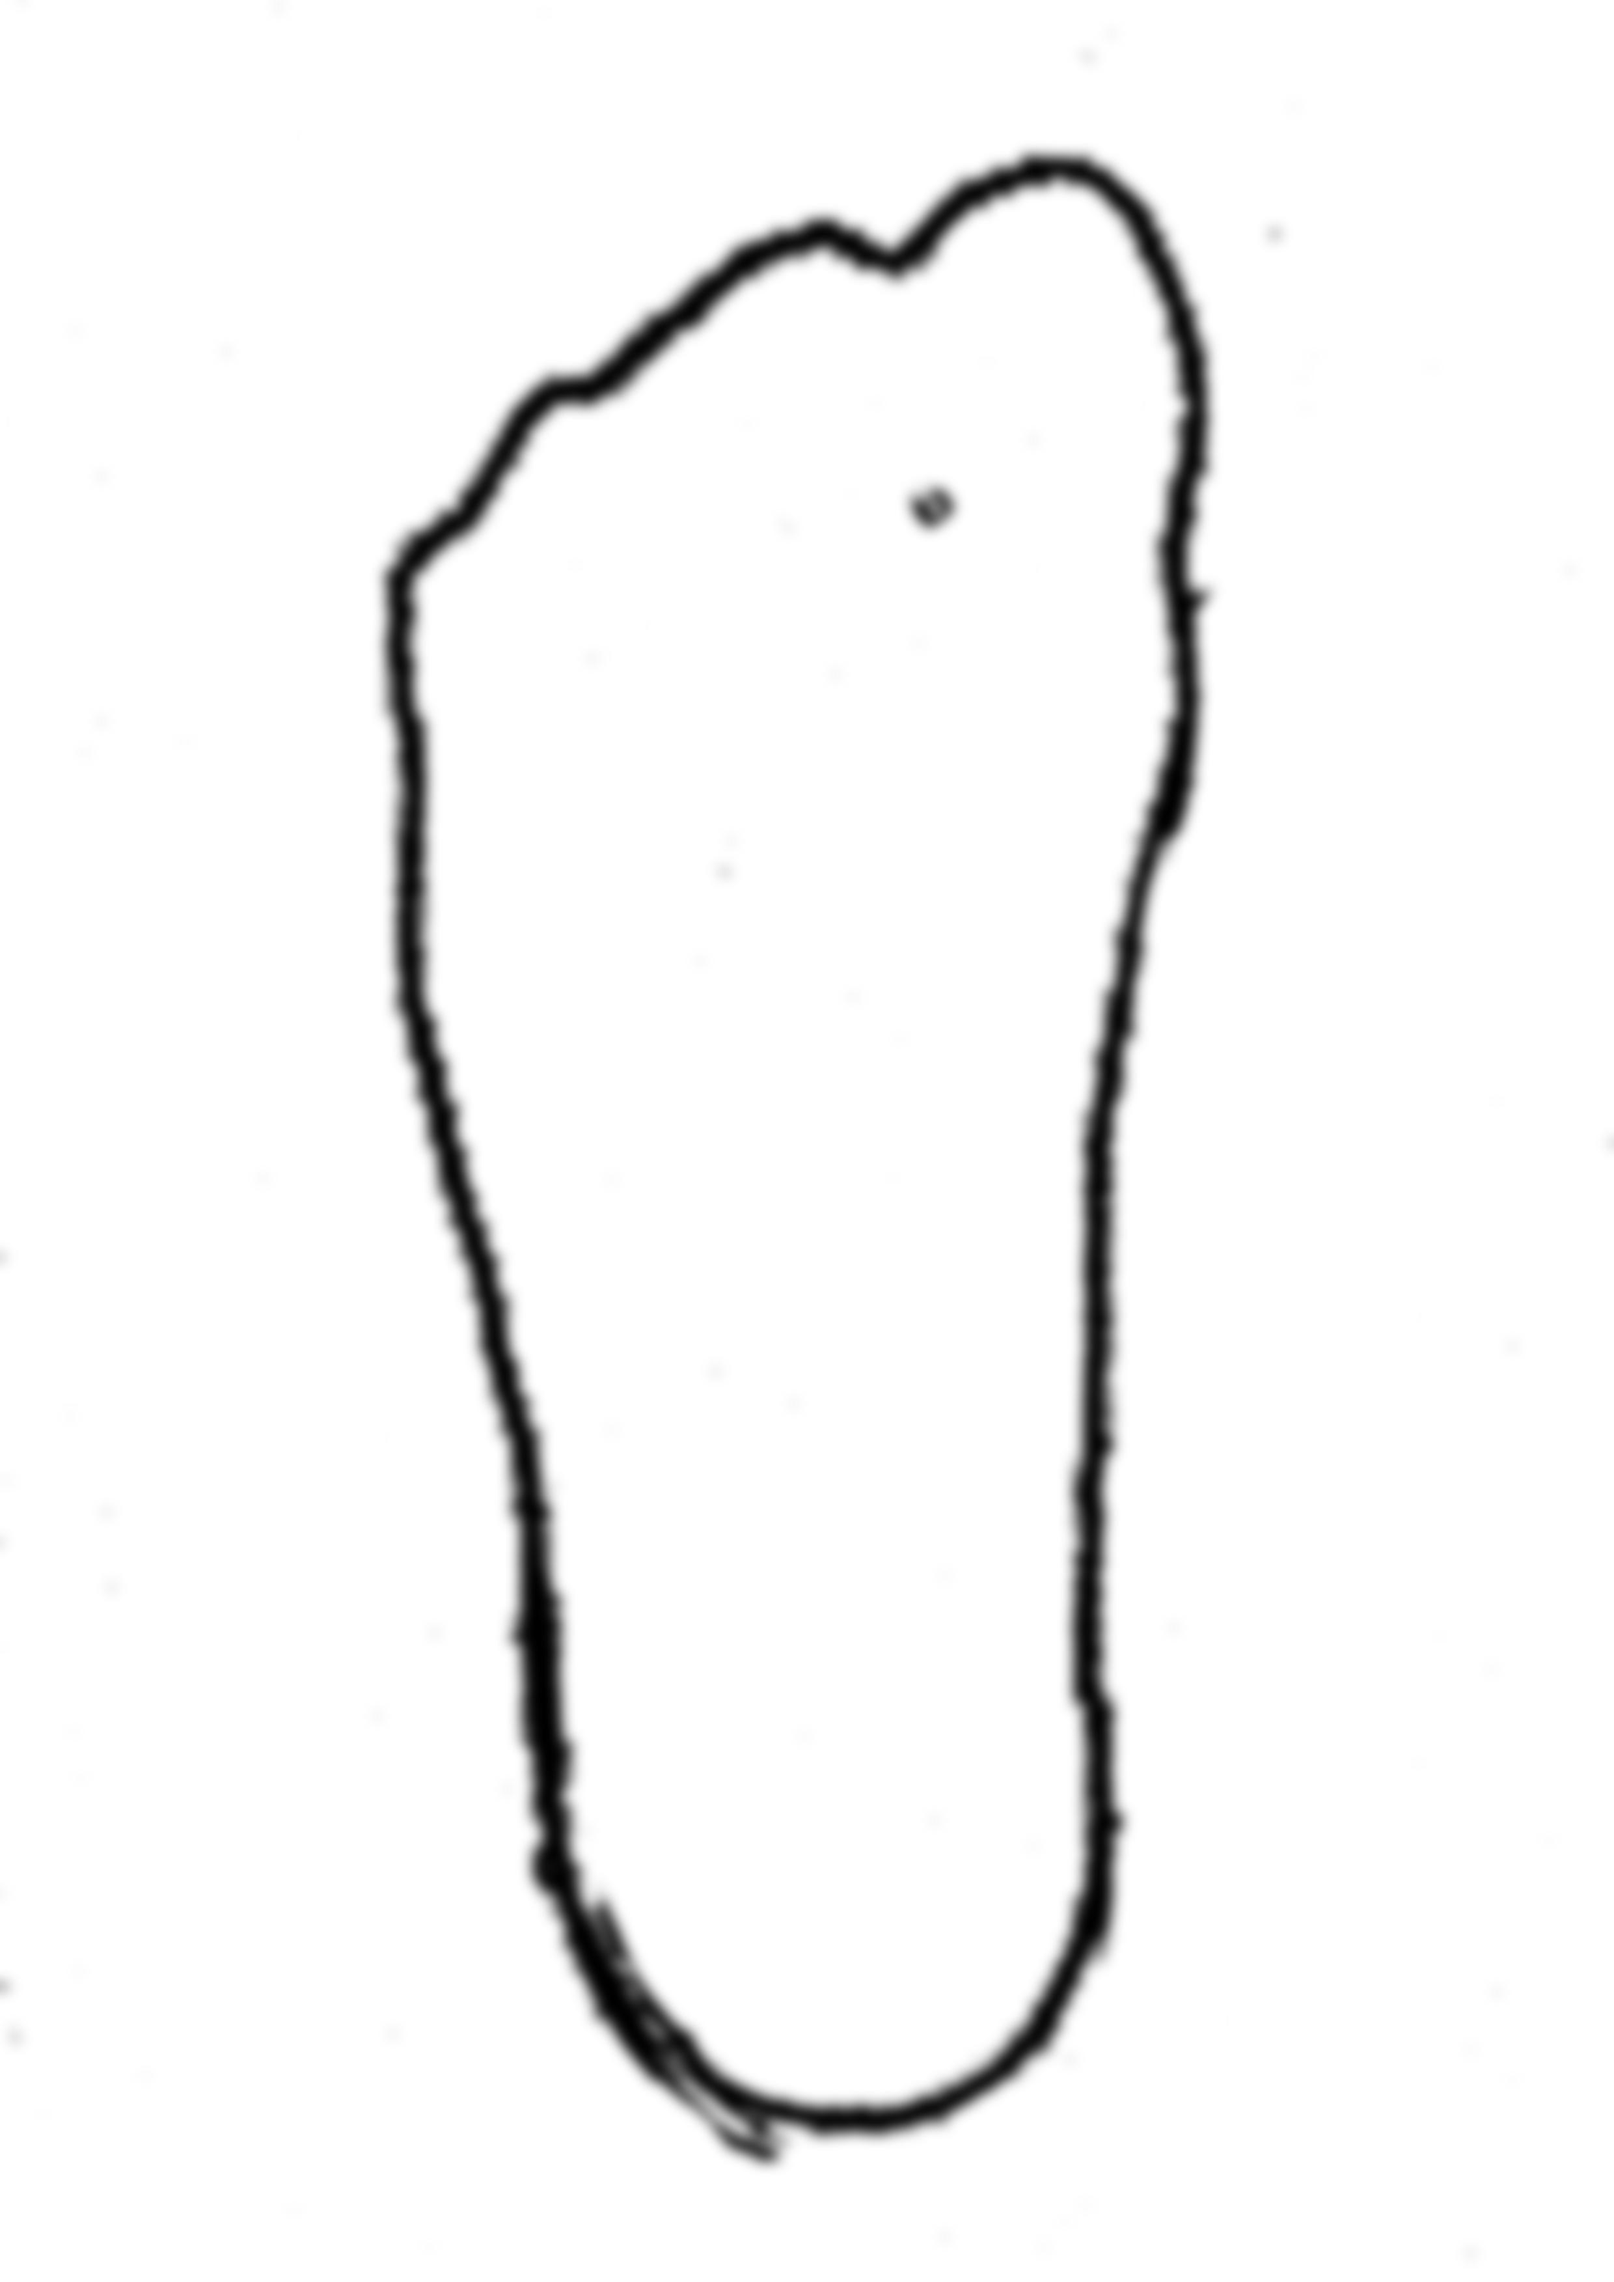
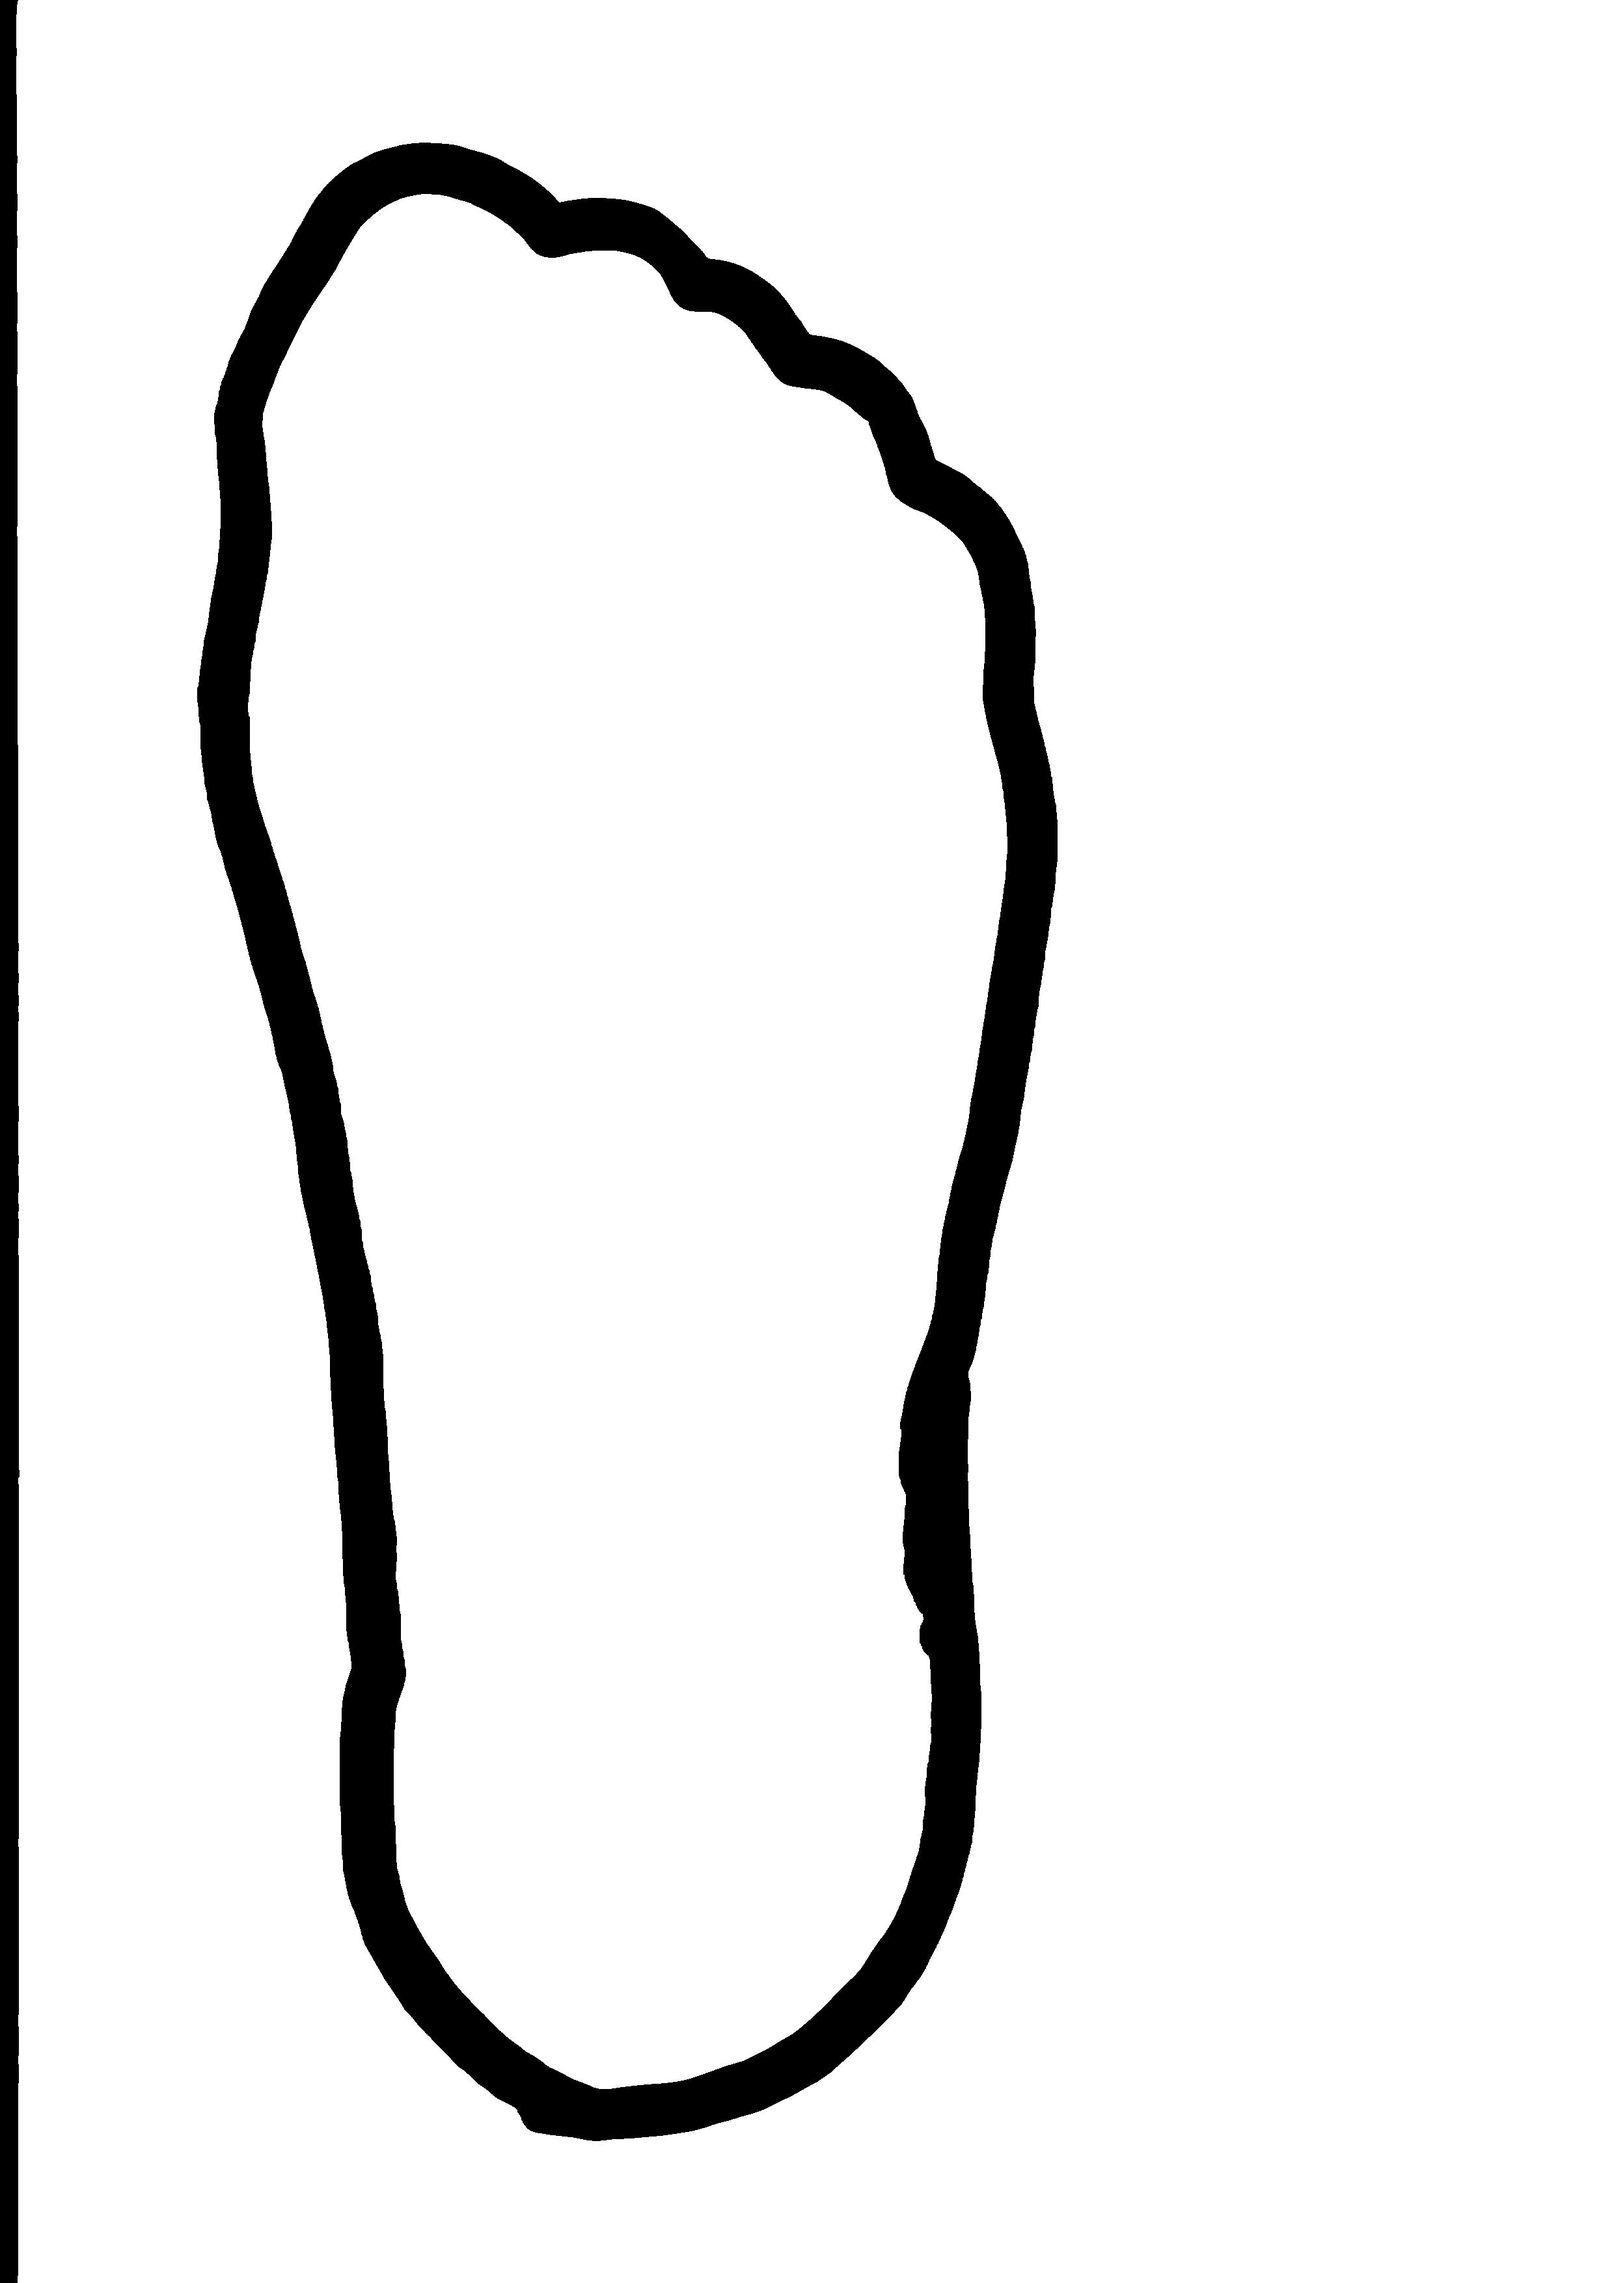
improved detection on holes and outlines, however multiple holes breaks program

Changed region(s): [[0.1242, 0.0622, 0.7762, 0.9641], [0.0, 0.0, 0.031, 1.0]]

diff --git a/TemplateCreator.py b/TemplateCreator.py
@@ -27,13 +27,12 @@ def img2hole(image):
 			if pixel != (0, 0, 0):
 				# If it's not black, set it to white
 				enhanced_image.putpixel((x, y), (255, 255, 255))  # Set as white
-
-	grayscale_image = enhanced_image.convert('L')
+	dilated_image = enhanced_image.filter(ImageFilter.MaxFilter(size=5))
+	blurred_image = dilated_image.filter(ImageFilter.GaussianBlur(radius=10))
+	grayscale_image = blurred_image.convert('L')
 	threshold_image = grayscale_image.point(lambda p: 0 if p < 255 else 255, '1')
-	dilated_image = threshold_image.filter(ImageFilter.MaxFilter(size=5))
-	compatible_image = dilated_image.convert('RGB')
-	blurred_image = compatible_image.filter(ImageFilter.GaussianBlur(radius=10))
-	blurred_image.save("enhanced_holes.jpg")
+	
+	threshold_image.save("enhanced_holes.jpg")
 
 	img = cv2.imread("enhanced_holes.jpg")
 	gray = cv2.cvtColor(img, cv2.COLOR_BGR2GRAY)
@@ -58,12 +57,21 @@ def img2hole(image):
 	return point
 
 def img2Outline(image):
-	grayscale_image = image.convert('L')
+	enhancer = ImageEnhance.Contrast(image)
+	enhanced_image = enhancer.enhance(3)
+	width, height = image.size
+	for x in range(width):
+		for y in range(height):
+			pixel = enhanced_image.getpixel((x, y))
+			# Check if the pixel is not black
+			if (0, 0, 0) <= pixel <= (5, 5, 5):
+				enhanced_image.putpixel((x, y), (255, 255, 255))  # Set as white
+	dilated_image = enhanced_image.filter(ImageFilter.MaxFilter(size=5))
+	blurred_image = dilated_image.filter(ImageFilter.GaussianBlur(radius=10))
+	grayscale_image = blurred_image.convert('L')
 	threshold_image = grayscale_image.point(lambda p: 0 if p < 255 else 255, '1')
-	dilated_image = threshold_image.filter(ImageFilter.MaxFilter(size=5))
-	compatible_image = dilated_image.convert('RGB')
-	blurred_image = compatible_image.filter(ImageFilter.GaussianBlur(radius=10))
-	blurred_image.save("enhanced_outline.jpg")
+
+	threshold_image.save("enhanced_outline.jpg")
 
 	img = cv2.imread("enhanced_outline.jpg")
 	gray = cv2.cvtColor(img, cv2.COLOR_BGR2GRAY)
@@ -71,11 +79,11 @@ def img2Outline(image):
 	# ret, im = cv2.threshold(gray,0,255,cv2.THRESH_BINARY_INV+cv2.THRESH_OTSU)
 	contours, hierarchy  = cv2.findContours(im, cv2.RETR_EXTERNAL, cv2.CHAIN_APPROX_SIMPLE)
 
-	# plt.subplot(121),plt.imshow(image,cmap = 'gray')
-	# plt.title('Original Image'), plt.xticks([]), plt.yticks([])
-	# plt.subplot(122),plt.imshow(im,cmap = 'gray')
-	# plt.title('Edge Image'), plt.xticks([]), plt.yticks([])
-	# plt.show()
+	plt.subplot(121),plt.imshow(enhanced_image,cmap = 'gray')
+	plt.title('Original Image'), plt.xticks([]), plt.yticks([])
+	plt.subplot(122),plt.imshow(threshold_image,cmap = 'gray')
+	plt.title('Edge Image'), plt.xticks([]), plt.yticks([])
+	plt.show()
 
 	epsilon = 0.008 * cv2.arcLength(contours[0], True)
 	poly_contour = cv2.approxPolyDP(contours[0], epsilon, True)
@@ -96,7 +104,7 @@ def img2Outline(image):
 
 
 if __name__ == "__main__":
-	drawing = load_image("left.jpg")
+	drawing = load_image("right.jpg")
 
 	x_list,y_list = img2Outline(drawing)
 	x,y = img2hole(drawing)
